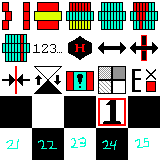
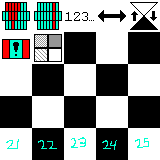
added buttons on the bottom and reworked the buttons, fixed a couple bugs with the interview

diff --git a/DataVisualization/Window.cpp b/DataVisualization/Window.cpp
@@ -99,7 +99,7 @@ void Window::drawImGuiWindow(Texture& texture) {
     ImGui::NewFrame();
 
     ImGui::PushFont(font);
-    createTable(texture);
+    createOptions(texture);
     if (!Window::form.open) {
         createColorPicker();
         createTooltip();
@@ -191,49 +191,69 @@ void frameBufferCallback(GLFWwindow* window, int width, int height) {
 }
 
 // creates the table of buttons by sampling a texture
-void Window::createTable (Texture& texture) {
-    ImGui::Begin("Options", nullptr, ImGuiWindowFlags_NoResize | ImGuiWindowFlags_NoMove | ImGuiWindowFlags_NoScrollbar);
+void Window::createOptions (Texture& texture) {
+    ImGui::Begin("Options", nullptr, ImGuiWindowFlags_NoResize | ImGuiWindowFlags_NoMove | ImGuiWindowFlags_NoScrollbar | ImGuiWindowFlags_NoCollapse | ImGuiWindowFlags_NoTitleBar);
     // create options table
     texture.bind();
     int numOfElements = std::min((int)round(config::windowX / 32.0f), (int)config::options.size());
-    ImVec2 padd{ 0.0, 0.0 };
-    if (ImGui::BeginTable("table3", numOfElements, ImGuiTableFlags_NoPadInnerX)) {
-        int x, y;
-        for (int item = 0; item < config::options.size(); item++) {
-            x = item % 5;
-            y = item / 5;
-            ImGui::TableNextColumn();
+    ImVec2 window = ImGui::GetWindowSize();
 
-            ImVec2 size = ImVec2(config::buttonSize, config::buttonSize);   // Size of the image we want to make visible
+    int x, y;
+    for (int item = 0; item < config::options.size(); item++) {
+        x = item % 5;
+        y = item / 5;
+        ImGui::SameLine();
 
-            // UV coordinates for lower-left
-            ImVec2 uv0 = ImVec2(
-                (config::buttonSize * x / texture.getWidth()),
-                (config::buttonSize * y / texture.getHeight())
-            );
+        ImVec2 size = ImVec2(config::buttonSize, config::buttonSize);   // Size of the image we want to make visible
 
-            // UV coordinates for (32,32) in our texture
-            ImVec2 uv1 = ImVec2(
-                (config::buttonSize * (x + 1) / texture.getWidth()),
-                (config::buttonSize * (y + 1) / texture.getHeight())
-            );
+        // UV coordinates for lower-left
+        ImVec2 uv0 = ImVec2(
+            (config::buttonSize * x / texture.getWidth()),
+            (config::buttonSize * y / texture.getHeight())
+        );
 
-            ImGui::PushID(item);
-            if (ImGui::ImageButton("", (void*)texture.id, size, uv0, uv1)) {
-                Window::buttonActions(item);
-            }
-            if (ImGui::IsItemHovered()) {
-                ImGui::BeginTooltip();
-                ImGui::Text(config::options.at(item).c_str());
-                ImGui::EndTooltip();
-            }
-            ImGui::PopID();
+        // UV coordinates for (32,32) in our texture
+        ImVec2 uv1 = ImVec2(
+            (config::buttonSize * (x + 1) / texture.getWidth()),
+            (config::buttonSize * (y + 1) / texture.getHeight())
+        );
 
+        ImGui::PushID(item);
+        if (ImGui::ImageButton("", (void*)texture.id, size, uv0, uv1)) {
+            Window::buttonActions(item);
         }
-        ImGui::EndTable();
+        if (ImGui::IsItemHovered()) {
+            ImGui::BeginTooltip();
+            ImGui::Text(config::options.at(item).c_str());
+            ImGui::EndTooltip();
+        }
+        ImGui::PopID();
+
     }
+
+
     ImGui::SetWindowSize(ImVec2(config::windowX, config::buttonSize*2));
     ImGui::SetWindowPos(ImVec2(0.0f, 0.0f));
+    ImGui::End();
+    
+    ImGui::Begin("##formState", nullptr, ImGuiWindowFlags_NoTitleBar | ImGuiWindowFlags_NoResize | ImGuiWindowFlags_NoMove);
+    ImGui::SetWindowSize(ImVec2(config::windowX * .4f, config::windowY * .05f));
+    ImGui::SetWindowPos(ImVec2(0.0f, config::windowY * .95f));
+    window = ImGui::GetWindowSize();
+    ImVec2 buttonSize{window.x * .3f, window.y * .6f};
+    if (ImGui::Button("Open Help##", buttonSize)) {
+        // 5 == STATE.INTRODUCTION
+        form.current = 5;
+        form.openWindow();
+    }
+    ImGui::SameLine();
+    if (ImGui::Button("Open Prep##", buttonSize)) {
+        // 1 == STATE.PREP
+        form.current = 1;
+        form.openWindow();
+    }
+    ImGui::SameLine();
+    ImGui::Button("Edit colors##", buttonSize);
     ImGui::End();
 }
 

diff --git a/DataVisualization/UI/Form.cpp b/DataVisualization/UI/Form.cpp
@@ -141,7 +141,7 @@ void Form::drawPrep () {
 		interview.datapoints.resize(func->subfunctionList.size());
 		for (int a = 0; a < interview.datapoints.size(); a++) {
 			std::vector<std::vector<int>>* category = new std::vector<std::vector<int>>;
-			category->resize(std::max((int)func->subfunctionList[a].size(), 1));
+			category->resize(interview.datapoints.size());
 			//
 			for (int b = 0; b < category->size(); b++) {
 				std::vector<int>* datapoint = new std::vector<int>;
@@ -487,13 +487,14 @@ void Form::drawInterview () {
 	if (ImGui::Button("Add Datapoint##", buttonSize)) {
 		interview.datapoints[interview.categoryIndex][interview.datapointIndex].push_back(interview.dataPointValue);
 
-		std::cout << "---" << std::endl;
+		std::cout << "------------" << std::endl;
+		std::cout << "function" << std::endl;
 		for (auto a : interview.datapoints) {
-			std::cout << "category" << std::endl;
+			std::cout << " categories" << std::endl;
 			for (auto b : a) {
-				std::cout << "datapoints" << std::endl;
+				std::cout << "  ----------\n  datapoints" << std::endl;
 				for (auto c : b) {
-					std::cout << c << std::endl;
+					std::cout << "  " << c << std::endl;
 				}
 			}
 		}

diff --git a/DataVisualization/tools/config.cpp b/DataVisualization/tools/config.cpp
@@ -3,25 +3,25 @@
 namespace config {
 	float color[3]{1, 1, 1};
 	std::vector<std::string> options {
-		"Align chains vertically", 
-		"Show layer borders", 
-		"Show element borders",
-		"Show element borders in one color", 
+		//"Align chains vertically", 
+		//"Show layer borders", 
+		//"Show element borders",
+		//"Show element borders in one color", 
 		"Show bush up", 
 		"Highlight a chain", 
 		"Sort elements using numerical values", 
-		"Align chains", 
+		//"Align chains", 
 		"Move an element by dragging", 
-		"Move a chain by dragging", 
-		"Automatically center Hansel Chains", 
+		//"Move a chain by dragging", 
+		//"Automatically center Hansel Chains", 
 		"Expand elements", 
 		"Show monotonicity violations", 
 		"Change expanded to real elements", 
-		"Expand monotonicity", 
-		"Show 3D view", 
-		"Show 3D plot view", 
-		"Show 3D compressed view", 
-		"Show initial position of disk"
+		//"Expand monotonicity", 
+		//"Show 3D view", 
+		//"Show 3D plot view", 
+		//"Show 3D compressed view", 
+		//"Show initial position of disk"
 	};
 
 	// populated in window class

diff --git a/DataVisualization/Window.h b/DataVisualization/Window.h
@@ -31,7 +31,7 @@ public:
 	static bool drawColorPicker;
 	static std::vector<Drawable*> managedList;
 	GLFWwindow* window;
-	static void createTable (Texture& texture);
+	static void createOptions (Texture& texture);
 	static void buttonActions (int val);
 	static void createColorPicker ();
 	static void createTooltip ();
